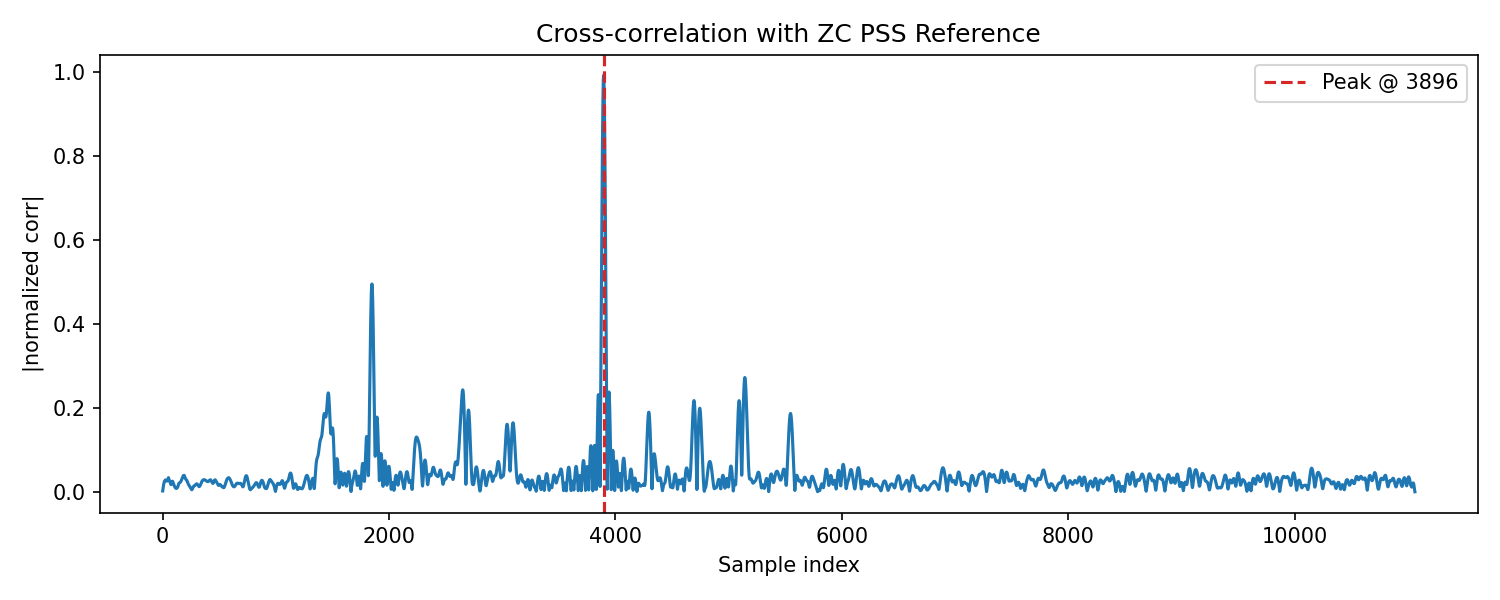
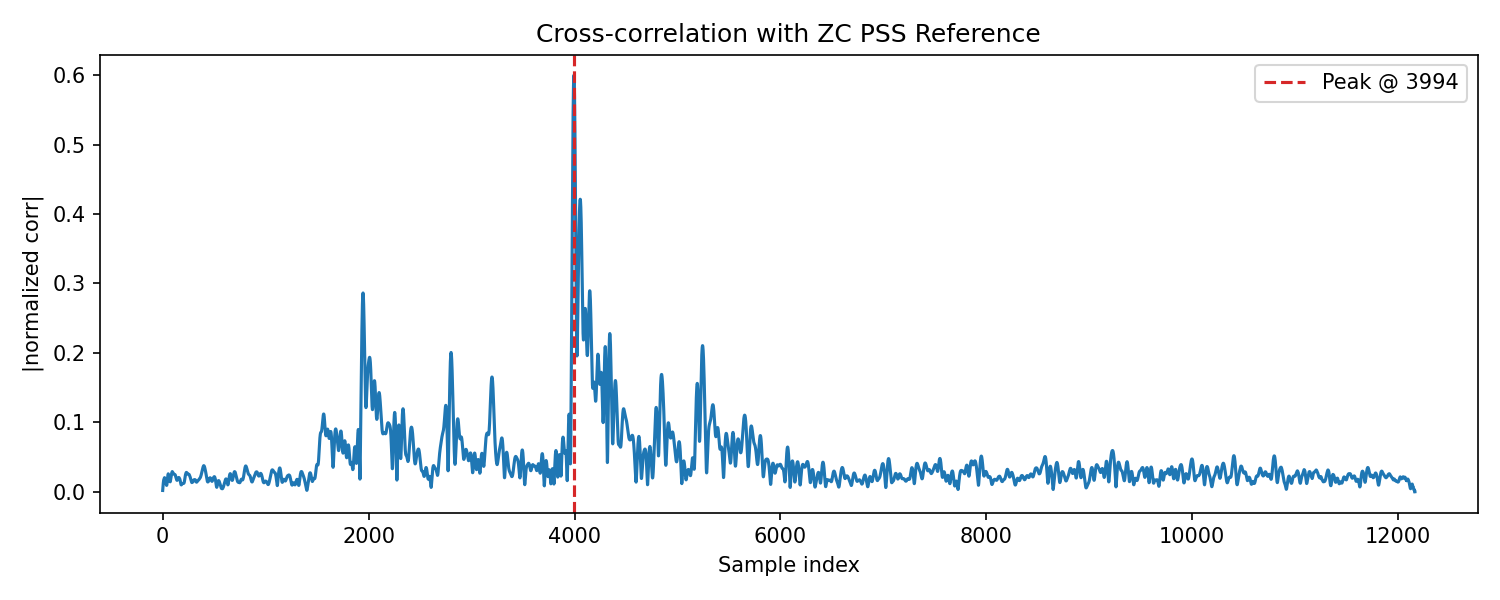
wip

diff --git a/sc.py b/sc.py
@@ -77,30 +77,37 @@ def sc_streaming_metric(rx: np.ndarray) -> tuple[np.ndarray, np.ndarray, np.ndar
     return M, P_sum, R_sum
 
 
-def find_plateau_end_from_metric(M: np.ndarray, smooth_win: int, n_fft: int) -> int:
+def find_plateau_end_from_metric(
+    M: np.ndarray, cp_len: int, lookahead: int | None = None, smooth_win: int = 8
+) -> int:
+    """Find plateau end (N start) using a look-ahead drop on smoothed M.
+
+    Computes drop(d) = Ms[d] - Ms[d+L] over a local search window around the
+    plateau center, where L is a small lookahead (default cp_len/4). The end
+    index is approximated as d + L/2 at the maximum drop.
+    """
     if M.size == 0:
         return 0
+    L = (cp_len // 4) if lookahead is None else int(max(1, lookahead))
     w = max(1, smooth_win)
-    kernel = np.ones(w, dtype=float) / w
-    Ms = np.convolve(M, kernel, mode="same")
-    dM = np.diff(Ms)
+    Ms = np.convolve(M, np.ones(w, dtype=float) / w, mode="same")
     center = int(np.argmax(Ms))
-    search_radius = n_fft // 4
-    lo = max(1, center - search_radius)
-    hi = min(dM.size - 1, center + search_radius)
-    if hi <= lo:
-        drop_idx = int(np.argmin(dM))
-    else:
-        local = dM[lo:hi]
-        drop_idx = int(lo + np.argmin(local))
-    plateau_end = drop_idx + 1
+    lo = max(0, center - cp_len)
+    hi = min(Ms.size - L - 1, center + cp_len)
+    window = Ms[lo:hi]
+    ahead = Ms[lo + L : hi + L]
+    drop = window - ahead
+    if drop.size == 0:
+        return center
+    d_rel = int(np.argmax(drop))
+    plateau_end = lo + d_rel + (L // 2)
     return plateau_end
 
 
 # Detector and channel parameters (script-local)
-SNR_DB = 35.0
+SNR_DB = 10.0
 CFO_HZ = 1000.0
-SC_DELTA = 12  # step back from plateau end to sit inside CP (8–16 suggested)
+SC_DELTA = 0  # step back from plateau end to sit inside CP (8–16 suggested)
 SMOOTH_WIN = 32  # samples for smoothing M(d) before slope detection
 
 # Output paths
@@ -113,7 +120,7 @@ CIR_PLOT_PATH = PLOTS_DIR / "channel_cir.png"
 CONST_PLOT_PATH = PLOTS_DIR / "constellation.png"
 
 # Channel profile (set to 'cir1' or 'cir2' to enable measured CIR)
-CHANNEL_PROFILE = None
+CHANNEL_PROFILE = "cir1"
 CHANNEL_RX_INDICES: tuple[int, ...] | None = (0, 1)
 
 
@@ -157,7 +164,7 @@ def run_simulation():
 
     # Detection metric (S&C)
     M, P_sum, R_sum = sc_streaming_metric(rx_samples)
-    plateau_end = find_plateau_end_from_metric(M, SMOOTH_WIN, N_FFT)
+    plateau_end = find_plateau_end_from_metric(M, CYCLIC_PREFIX, lookahead=CYCLIC_PREFIX // 4, smooth_win=8)
     coarse_start = max(plateau_end - SC_DELTA, 0)
 
     # Ground-truth alignment helpers
@@ -221,23 +228,29 @@ def run_simulation():
     # --- CFO estimation from pilot (CP correlation) ---
     # plateau_end approximates the end of CP and start of N for the preamble
     preamble_n_start_est = plateau_end
-    pilot_cp_nom = preamble_n_start_est + N_FFT
-    from core import find_cp_start_via_corr
-    pilot_cp_start = find_cp_start_via_corr(
-        rx_samples, pilot_cp_nom, N_FFT, CYCLIC_PREFIX, search_half=2 * CYCLIC_PREFIX
-    )
+    # Do not refine with correlation search; rely on plateau edge only
+    pilot_cp_start = preamble_n_start_est + N_FFT
     data_cp_start = pilot_cp_start + pilot_symbol.size
-    cfo_est_hz = estimate_cfo_from_cp(rx_samples, pilot_cp_start, N_FFT, CYCLIC_PREFIX, SAMPLE_RATE_HZ)
+    from core import estimate_cfo_from_cp_peak_with_index
+    cfo_est_hz, pilot_cp_best = estimate_cfo_from_cp_peak_with_index(
+        rx_samples,
+        pilot_cp_start,
+        N_FFT,
+        CYCLIC_PREFIX,
+        SAMPLE_RATE_HZ,
+        span=CYCLIC_PREFIX // 2,
+    )
     # Compensate CFO across entire stream
     rx_cfo_corr = apply_cfo(rx_samples, -cfo_est_hz, SAMPLE_RATE_HZ)
 
     # --- Channel LS estimate from pilot ---
     rx_eff = rx_cfo_corr if rx_cfo_corr.ndim == 1 else np.mean(rx_cfo_corr, axis=0)
-    pilot_td = rx_eff[pilot_cp_start + CYCLIC_PREFIX : pilot_cp_start + CYCLIC_PREFIX + N_FFT]
+    pilot_td = rx_eff[pilot_cp_best + CYCLIC_PREFIX : pilot_cp_best + CYCLIC_PREFIX + N_FFT]
     y_pilot_used = ofdm_fft_used(pilot_td)
     h_est = ls_channel_estimate(y_pilot_used, pilot_used)
 
     # --- Equalize data symbol and compute EVM ---
+    data_cp_start = pilot_cp_best + CYCLIC_PREFIX + N_FFT
     data_td = rx_eff[data_cp_start + CYCLIC_PREFIX : data_cp_start + CYCLIC_PREFIX + N_FFT]
     y_data_used = ofdm_fft_used(data_td)
     xhat = equalize(y_data_used, h_est)

diff --git a/core.py b/core.py
@@ -6,7 +6,6 @@ from pathlib import Path
 N_FFT = 2048
 NUM_ACTIVE_SUBCARRIERS = 1200
 CYCLIC_PREFIX = 512
-SNR_DB = 35.0
 TX_PRE_PAD_SAMPLES = 1337
 SAMPLE_RATE_HZ = 30_720_000.0  # default 30.72 MHz (adjust as needed)
 
@@ -195,6 +194,113 @@ def estimate_cfo_from_cp(
     # angle(P) ≈ -2π * f_cfo * N / Fs  => f_cfo ≈ -angle * Fs / (2π N)
     cfo_hz = -angle * fs_hz / (2 * np.pi * n_fft)
     return float(cfo_hz)
+
+
+def estimate_cfo_from_cp_robust(
+    rx: np.ndarray,
+    cp_start_est: int,
+    n_fft: int,
+    cp_len: int,
+    fs_hz: float,
+    span: int | None = None,
+    win_len: int | None = None,
+) -> float:
+    """Robust CFO estimate by aggregating CP correlations around an estimated start.
+
+    - Sums P(d) over d in [cp_start_est - span, cp_start_est + span] using a
+      shorter window length `win_len` to tolerate misalignment.
+    - Returns CFO in Hz with the same sign convention as `estimate_cfo_from_cp`.
+    """
+    x = np.asarray(rx)
+    if x.ndim == 1:
+        x = x[np.newaxis, :]
+    L = x.shape[1]
+    span = cp_len // 2 if span is None else int(max(0, span))
+    win = cp_len // 2 if win_len is None else int(max(1, win_len))
+    d_lo = max(0, cp_start_est - span)
+    d_hi = min(L - (n_fft + win), cp_start_est + span)
+    if d_hi <= d_lo:
+        return estimate_cfo_from_cp(x, cp_start_est, n_fft, min(cp_len, win), fs_hz)
+    P_acc = 0.0 + 0.0j
+    for d in range(d_lo, d_hi):
+        a = x[:, d : d + win]
+        b = x[:, d + n_fft : d + n_fft + win]
+        P_acc += np.sum(a * np.conj(b))
+    angle = np.angle(P_acc)
+    cfo_hz = -angle * fs_hz / (2 * np.pi * n_fft)
+    return float(cfo_hz)
+
+
+def estimate_cfo_from_cp_peak(
+    rx: np.ndarray,
+    cp_start_est: int,
+    n_fft: int,
+    cp_len: int,
+    fs_hz: float,
+    span: int | None = None,
+) -> float:
+    """Pick the CP offset with maximum |P(d)| near the estimated CP start and use its phase.
+
+    This does not change frame timing — it only chooses the best CP correlation
+    offset for CFO estimation within a small local window.
+    """
+    x = np.asarray(rx)
+    if x.ndim == 1:
+        x = x[np.newaxis, :]
+    L = x.shape[1]
+    span = cp_len // 2 if span is None else int(max(0, span))
+    d_lo = max(0, cp_start_est - span)
+    d_hi = min(L - (n_fft + cp_len), cp_start_est + span)
+    if d_hi <= d_lo:
+        return estimate_cfo_from_cp(x, cp_start_est, n_fft, cp_len, fs_hz)
+    best_P = 0.0 + 0.0j
+    best_mag = -1.0
+    for d in range(d_lo, d_hi):
+        a = x[:, d : d + cp_len]
+        b = x[:, d + n_fft : d + n_fft + cp_len]
+        P = np.sum(a * np.conj(b))
+        mag = float(np.abs(P))
+        if mag > best_mag:
+            best_mag = mag
+            best_P = P
+    angle = np.angle(best_P)
+    cfo_hz = -angle * fs_hz / (2 * np.pi * n_fft)
+    return float(cfo_hz)
+
+
+def estimate_cfo_from_cp_peak_with_index(
+    rx: np.ndarray,
+    cp_start_est: int,
+    n_fft: int,
+    cp_len: int,
+    fs_hz: float,
+    span: int | None = None,
+) -> tuple[float, int]:
+    """Like estimate_cfo_from_cp_peak, but also return the best CP offset index used."""
+    x = np.asarray(rx)
+    if x.ndim == 1:
+        x = x[np.newaxis, :]
+    L = x.shape[1]
+    span = cp_len // 2 if span is None else int(max(0, span))
+    d_lo = max(0, cp_start_est - span)
+    d_hi = min(L - (n_fft + cp_len), cp_start_est + span)
+    if d_hi <= d_lo:
+        return estimate_cfo_from_cp(x, cp_start_est, n_fft, cp_len, fs_hz), cp_start_est
+    best_P = 0.0 + 0.0j
+    best_mag = -1.0
+    best_d = d_lo
+    for d in range(d_lo, d_hi):
+        a = x[:, d : d + cp_len]
+        b = x[:, d + n_fft : d + n_fft + cp_len]
+        P = np.sum(a * np.conj(b))
+        mag = float(np.abs(P))
+        if mag > best_mag:
+            best_mag = mag
+            best_P = P
+            best_d = d
+    angle = np.angle(best_P)
+    cfo_hz = -angle * fs_hz / (2 * np.pi * n_fft)
+    return float(cfo_hz), int(best_d)
 
 
 def find_cp_start_via_corr(

diff --git a/zc.py b/zc.py
@@ -46,7 +46,7 @@ def build_pss_symbol(include_cp: bool = True) -> np.ndarray:
 
 
 # Script-local parameters
-SNR_DB = 35.0
+SNR_DB = 10.0
 CFO_HZ = 1000.0
 
 PLOTS_DIR = Path("plots") / "zc"
@@ -57,7 +57,7 @@ RESULTS_PLOT_PATH = PLOTS_DIR / "start_detection.png"
 CIR_PLOT_PATH = PLOTS_DIR / "channel_cir.png"
 CONST_PLOT_PATH = PLOTS_DIR / "constellation.png"
 
-CHANNEL_PROFILE = None # Set to None to bypass measured CIR
+CHANNEL_PROFILE = "cir1" # Set to None to bypass measured CIR
 CHANNEL_RX_INDICES: tuple[int, ...] | None = (0, 1)
 
 
@@ -174,11 +174,8 @@ def run_simulation():
 
     # --- CFO estimation from pilot (CP correlation) ---
     # detected_start aligns to start of the N-length part of the preamble
-    pilot_cp_nom = detected_start + N_FFT
-    from core import find_cp_start_via_corr
-    pilot_cp_start = find_cp_start_via_corr(
-        rx_samples, pilot_cp_nom, N_FFT, CYCLIC_PREFIX, search_half=2 * CYCLIC_PREFIX
-    )
+    # Do not refine with correlation search; rely on ZC timing only
+    pilot_cp_start = detected_start + N_FFT
     data_cp_start = pilot_cp_start + pilot_symbol.size
     cfo_est_hz = estimate_cfo_from_cp(rx_samples, pilot_cp_start, N_FFT, CYCLIC_PREFIX, SAMPLE_RATE_HZ)
     # Compensate CFO across entire stream
